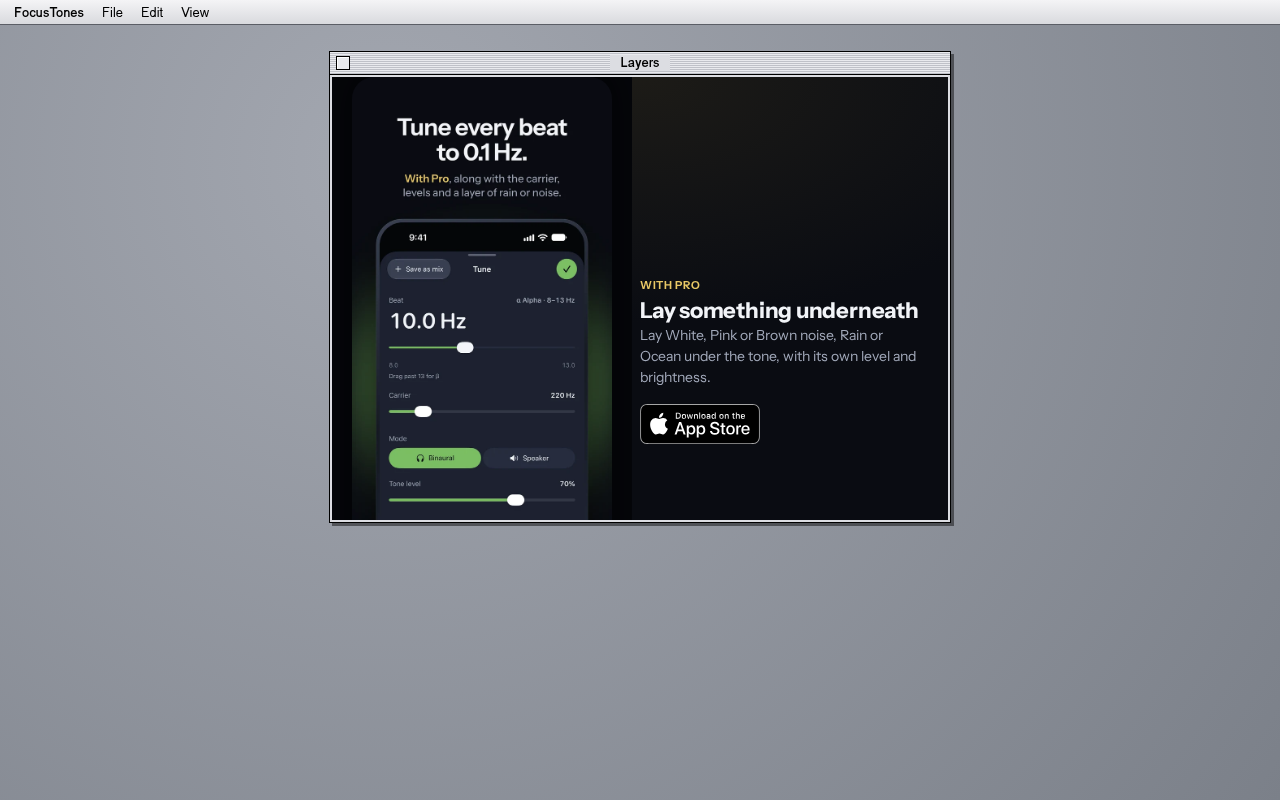
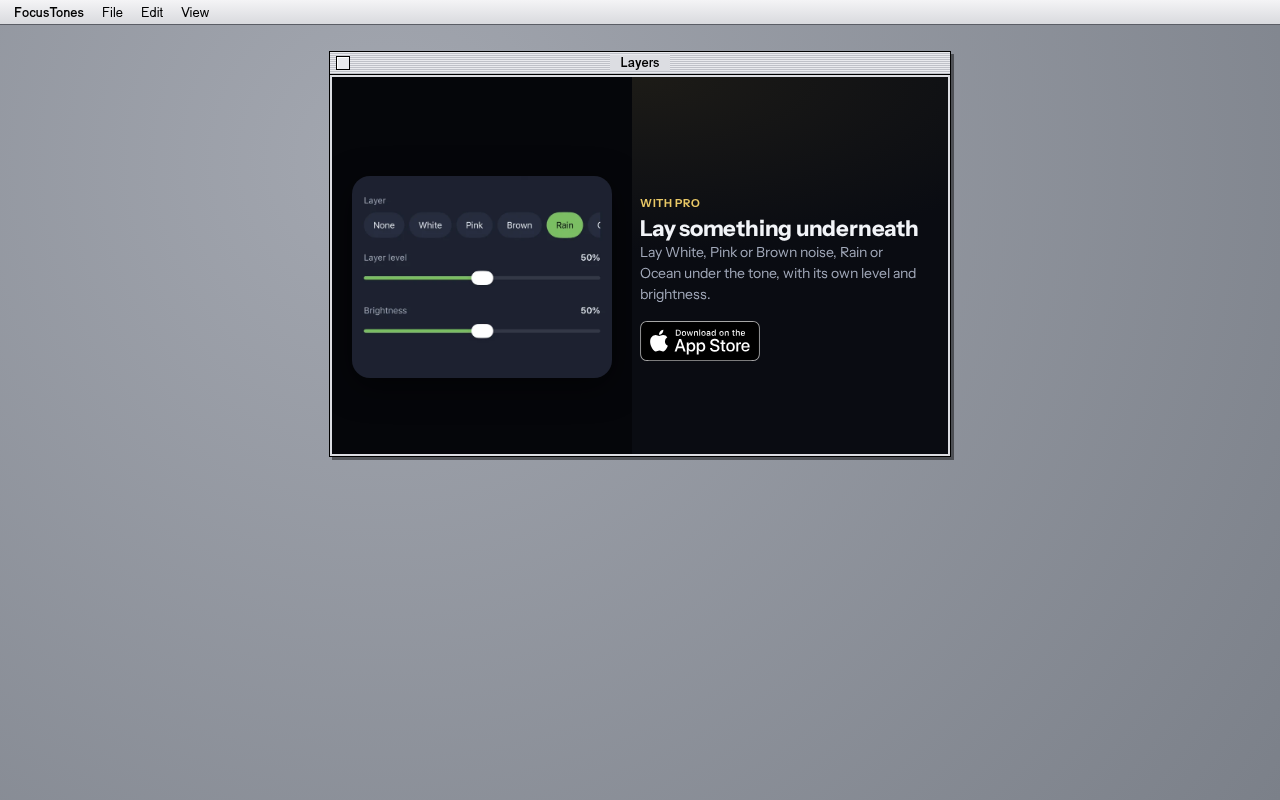
Windows review fixes: matching Layers frame, QR on desktop only, trim Listen copy, centre feature text, palette test (#6)

Changed region(s): [[0.25, 0.1562, 0.75, 0.6562]]

diff --git a/src/windows/windows.css b/src/windows/windows.css
@@ -112,8 +112,10 @@
 
 /* ---------- Feature windows ---------- */
 .ft-flush { padding: 0; }
-.ft-feature { display: grid; gap: 20px; align-content: start; min-height: 100%; }
+.ft-feature { display: grid; gap: 20px; align-content: start; }
 .ft-frame { background: #05060a; display: grid; place-items: center; padding: 20px 20px 0; overflow: hidden; }
+.ft-frame.ft-frame-crop { padding: 20px; align-items: center; }
+.ft-frame.ft-frame-crop img { border-radius: 18px; box-shadow: 0 8px 32px rgb(0 0 0 / 0.55); width: min(280px, 100%); }
 .ft-frame img { width: min(260px, 100%); height: auto; display: block; border-radius: 22px 22px 0 0; box-shadow: 0 -8px 40px rgb(0 0 0 / 0.6); }
 .ft-feature-text { padding: 0 20px 22px; }
 .ft-eyebrow { color: var(--text3); font-size: 11px; font-weight: 650; letter-spacing: 0.06em; text-transform: uppercase; }
@@ -124,7 +126,9 @@
 .ft-chips { display: flex; flex-wrap: wrap; gap: 6px; margin-top: 6px; }
 .ft-chips li { background: var(--fill); border-radius: 999px; padding: 4px 11px; font-size: 12.5px; font-weight: 550; }
 @container (min-width: 520px) {
-  .ft-feature { grid-template-columns: 300px 1fr; gap: 0; min-height: 100%; }
+  .ft-frame.ft-frame-crop { padding: 20px; align-items: center; }
+  .ft-feature { grid-template-columns: 300px 1fr; gap: 0; align-items: stretch; align-content: stretch; min-height: 400px; }
+  .ft-frame { max-height: 400px; }
   .ft-frame { padding: 28px 20px 0; align-items: end; }
   .ft-feature-text { padding: 28px 24px 24px 8px; align-self: center; }
 }
@@ -168,5 +172,6 @@
   .ft-foot { margin-top: 8px; }
 }
 
-/* A phone has the badge; the QR code is for a computer. */
-@media (pointer: coarse) { .ft-get-qr { display: none; } }
+/* A phone has the badge; the QR code is for a computer: only a fine pointer on a desktop-sized screen shows it. */
+.ft-get-qr { display: none; }
+@media (pointer: fine) and (min-width: 700px) { .ft-get-qr { display: flex; } }

diff --git a/src/windows/features/FeatureWindow.tsx b/src/windows/features/FeatureWindow.tsx
@@ -9,17 +9,19 @@ export interface FeatureProps {
   readonly frame: string;
   readonly copy: { readonly heading: string; readonly body: string; readonly caption: string; readonly frameAlt: string };
   readonly pro: boolean;
+  /** True when the image is a cropped capture of one part of a screen (no phone frame, no caption baked in). */
+  readonly crop?: boolean;
   /** Extra content under the body (the iPhone window's list of surfaces). */
   readonly children?: React.ReactNode;
 }
 
 /** One idea from the app: the real App Store frame, an approved line, and the badge. */
-export function FeatureWindow({ placement, frame, copy, pro, children }: FeatureProps) {
+export function FeatureWindow({ placement, frame, copy, pro, crop, children }: FeatureProps) {
   return (
     <section className="ft-win ft-flush" aria-label={copy.heading} data-feature={placement}>
       <div className="ft-feature">
-        <figure className="ft-frame">
-          <img src={frame} alt={`${copy.caption} ${copy.frameAlt}`} width="320" height="696" loading="lazy" />
+        <figure className={crop ? 'ft-frame ft-frame-crop' : 'ft-frame'}>
+          <img src={frame} alt={`${copy.caption} ${copy.frameAlt}`} width={320} height={crop ? 250 : 696} loading="lazy" />
         </figure>
         <div className="ft-feature-text">
           <span className={pro ? 'ft-eyebrow ft-eyebrow-pro' : 'ft-eyebrow'}>{pro ? F.eyebrowPro : F.eyebrowFree}</span>

diff --git a/src/windows/listen/orbMotion.test.ts b/src/windows/listen/orbMotion.test.ts
@@ -1,6 +1,23 @@
 import { describe, expect, it } from 'vitest';
 import { BAND_HUES, MOTION, OrbMorph, OrbPlayback, breath, breathPhase, colors, ease, isAnimating, points } from './orbMotion.ts';
 
+const hexOf = (c: readonly number[]) => '#' + c.map((v) => Math.round(v * 255).toString(16).padStart(2, '0')).join('').toUpperCase();
+
+describe('band colours', () => {
+  // focustones-ios Packages/UI/Sources/UI/Palette.swift, `Palette.hues(_:)`.
+  const ios = {
+    delta: ['#21B5B0', '#7FE3DC', '#0E6F78', '#3C7FD6'],
+    theta: ['#26C3A8', '#8AEBD4', '#138A6E', '#2B9FC6'],
+    alpha: ['#7BBE62', '#C2E89A', '#3F8A35', '#2FB59A'],
+    beta: ['#D9B44A', '#F4DE8E', '#A8721A', '#F2A23A'],
+    gamma: ['#F2A23A', '#FFD08A', '#C2561A', '#E8664A'],
+  } as const;
+  it.each(Object.keys(ios) as (keyof typeof ios)[])('%s matches the iOS palette exactly', (band) => {
+    const h = BAND_HUES[band];
+    expect([h.base, h.light, h.deep, h.cross].map(hexOf)).toEqual(ios[band]);
+  });
+});
+
 describe('orb motion', () => {
   it('breathes on a 6 s cycle: out at 0, in at 3 s, out again at 6 s', () => {
     expect(breathPhase(0)).toBeCloseTo(0);

diff --git a/src/content/strings.ts b/src/content/strings.ts
@@ -31,7 +31,6 @@ export interface Strings {
     readonly proLayers: string;
     readonly proPrograms: string;
     readonly free: string;
-    readonly safety: string;
     readonly goalFocus: string;
     readonly goalCreate: string;
     readonly goalRelax: string;
@@ -158,7 +157,6 @@ export const strings: Strings = {
     proLayers: 'Layers',
     proPrograms: 'Programs',
     free: 'Five band presets, any timer and Speaker mode are free, with no time limit.',
-    safety: 'Keep the volume moderate. The orb never flashes at the beat.',
     goalFocus: 'Focus',
     goalCreate: 'Create',
     goalRelax: 'Relax',
@@ -315,7 +313,6 @@ export const provenance: Readonly<Record<string, string>> = {
   'listen.proLayers': 'new (the feature name the app uses)',
   'listen.proPrograms': 'new (the feature name the app uses)',
   'listen.free': `${APPROVED_PAGE} closing`,
-  'listen.safety': APPROVED_ABOUT,
   'listen.goalFocus': 'new (the goal name the app uses, Catalog.swift)',
   'listen.goalCreate': 'new (the goal name the app uses, Catalog.swift)',
   'listen.goalRelax': 'new (the goal name the app uses, Catalog.swift)',

diff --git a/src/windows/harness/harness.css b/src/windows/harness/harness.css
@@ -8,7 +8,8 @@ body { background: #8f939c; font: 13px system-ui, sans-serif; }
 .h-title { height: 22px; flex: none; display: grid; place-items: center; position: relative; background: repeating-linear-gradient(#e9eaee 0 1px, #bfc1c8 1px 2px); border-bottom: 1px solid #000; font-weight: 700; }
 .h-title span { background: #dcdde2; padding: 0 10px; line-height: 16px; }
 .h-close { position: absolute; left: 6px; top: 4px; width: 12px; height: 12px; border: 1px solid #000; background: #e9eaee; box-shadow: inset 1px 1px #fff; }
-.h-body { flex: 1; min-height: 0; overflow: auto; background: #0a0c12; border: 2px solid #dcdde2; }
+.h-body { flex: 1; min-height: 0; overflow: auto; background: #0a0c12; border: 2px solid #dcdde2; display: flex; flex-direction: column; }
+.h-body > * { flex: 1 0 auto; }
 .h-bar { position: fixed; left: 0; right: 0; bottom: 0; }
 @media (max-width: 700px) {
   .h-menubar span { display: none; }

diff --git a/src/windows/features/windows.tsx b/src/windows/features/windows.tsx
@@ -4,7 +4,7 @@ import { FeatureWindow } from './FeatureWindow.tsx';
 const F = strings.features;
 
 export const TuneWindow = () => <FeatureWindow placement="tune" frame="/frames/tune.webp" copy={F.tune} pro />;
-export const LayersWindow = () => <FeatureWindow placement="layers" frame="/frames/tune.webp" copy={F.layers} pro />;
+export const LayersWindow = () => <FeatureWindow placement="layers" frame="/frames/layers.webp" copy={F.layers} pro crop />;
 export const ProgramsWindow = () => <FeatureWindow placement="programs" frame="/frames/mixes.webp" copy={F.programs} pro />;
 export const ProgressWindow = () => <FeatureWindow placement="progress" frame="/frames/progress.webp" copy={F.progress} pro={false} />;
 

diff --git a/e2e/windows.spec.ts b/e2e/windows.spec.ts
@@ -80,6 +80,9 @@ test('Get FocusTones: badge and QR carry the campaign token, prices as approved'
   const qr = get.getByTestId('qr');
   await expect(qr.locator('svg path')).toHaveCount(1);
   expect(await qr.getAttribute('href')).toContain('ct=focustones-co-qr');
+  // The QR code is for computers: shown on a wide screen with a fine pointer, hidden on a phone-sized one.
+  if ((page.viewportSize()?.width ?? 0) >= 700) await expect(qr).toBeVisible();
+  else await expect(qr).toBeHidden();
   for (const price of ['Monthly: $6.99 a month.', 'Annual: a 7-day trial, then $39.99 a year.', 'Lifetime: $79.99, one purchase with no renewal.']) {
     await expect(get.getByText(price)).toBeVisible();
   }

diff --git a/src/windows/index.ts b/src/windows/index.ts
@@ -9,7 +9,7 @@ import { ListenWindow } from './listen/ListenWindow.tsx';
 
 const F = strings.features;
 const feature = (id: string, title: string, icon: string, n: number, component: WindowSpec['component']): WindowSpec => ({
-  id: `feature-${id}`, title, icon, defaultSize: { width: 620, height: 470 }, defaultPosition: { x: 120 + n * 28, y: 70 + n * 28 }, component, openOnLaunch: false,
+  id: `feature-${id}`, title, icon, defaultSize: { width: 620, height: 404 }, defaultPosition: { x: 120 + n * 28, y: 70 + n * 28 }, component, openOnLaunch: false,
 });
 
 /** Every window this folder provides; `src/desktop/registry.ts` lists them. */

diff --git a/src/windows/listen/ListenWindow.tsx b/src/windows/listen/ListenWindow.tsx
@@ -112,7 +112,6 @@ export function ListenWindow() {
       </div>
 
       <p className="ft-foot">{L.free}</p>
-      <p className="ft-foot ft-foot-dim">{L.safety}</p>
     </section>
   );
 }

diff --git a/ASSETS.md b/ASSETS.md
@@ -6,6 +6,7 @@ Everything in `public/` has a known source and licence. Add a row for each new f
 | --- | --- | --- | --- | --- |
 | `public/favicon.svg` | Drawn for this site | Ours | The site's owner | None |
 | `public/frames/*.webp` | The app's App Store frames (`focustones-ios` `docs/marketing/kit/frames/01…05`), resized to 640 px wide and converted to WebP (ImageMagick) | Ours | The app's owner (generated by agents) | None |
+| `public/frames/layers.webp` | Crop (layer, layer level, brightness) of the app's Tune capture (`focustones-ios` `docs/marketing/store/1.0/captures/05-tune-layer.png`), resized to 640 px wide (ImageMagick); no caption | Ours | The app's owner (captured by agents) | None |
 | `public/app-icon.png` | `focustones-ios` `docs/marketing/web/icon.png` (the app icon), resized to 256 px | Ours | The app's owner (generated by agents) | None |
 | `public/badges/app-store-black.svg` | Apple's official "Download on the App Store" black badge, US-UK, as already self-hosted by `apps-tyl-sh` (`public/badges/app-store-black.svg`; Apple App Store Marketing Tools, 2026-10-27) | Apple's App Store Marketing Artwork License Agreement and App Store marketing guidelines | Apple Inc. | Used unaltered, linking to the app's App Store page |
 | `public/fonts/InstrumentSansVariable.ttf` | Instrument Sans, `google/fonts@ddf386ba1b9fbc6b2c818f1ddcd9148f54ced94b` `ofl/instrumentsans` (copied from `focustones-ios` `docs/marketing/kit/src/`) | OFL-1.1 | The Instrument Sans Project Authors | Licence text kept verbatim in `licenses/InstrumentSans-OFL.txt`. It is not served from `public/` because its two project URLs would fail the outside-requests check (ADR 0004); the owner decides whether to serve it |
